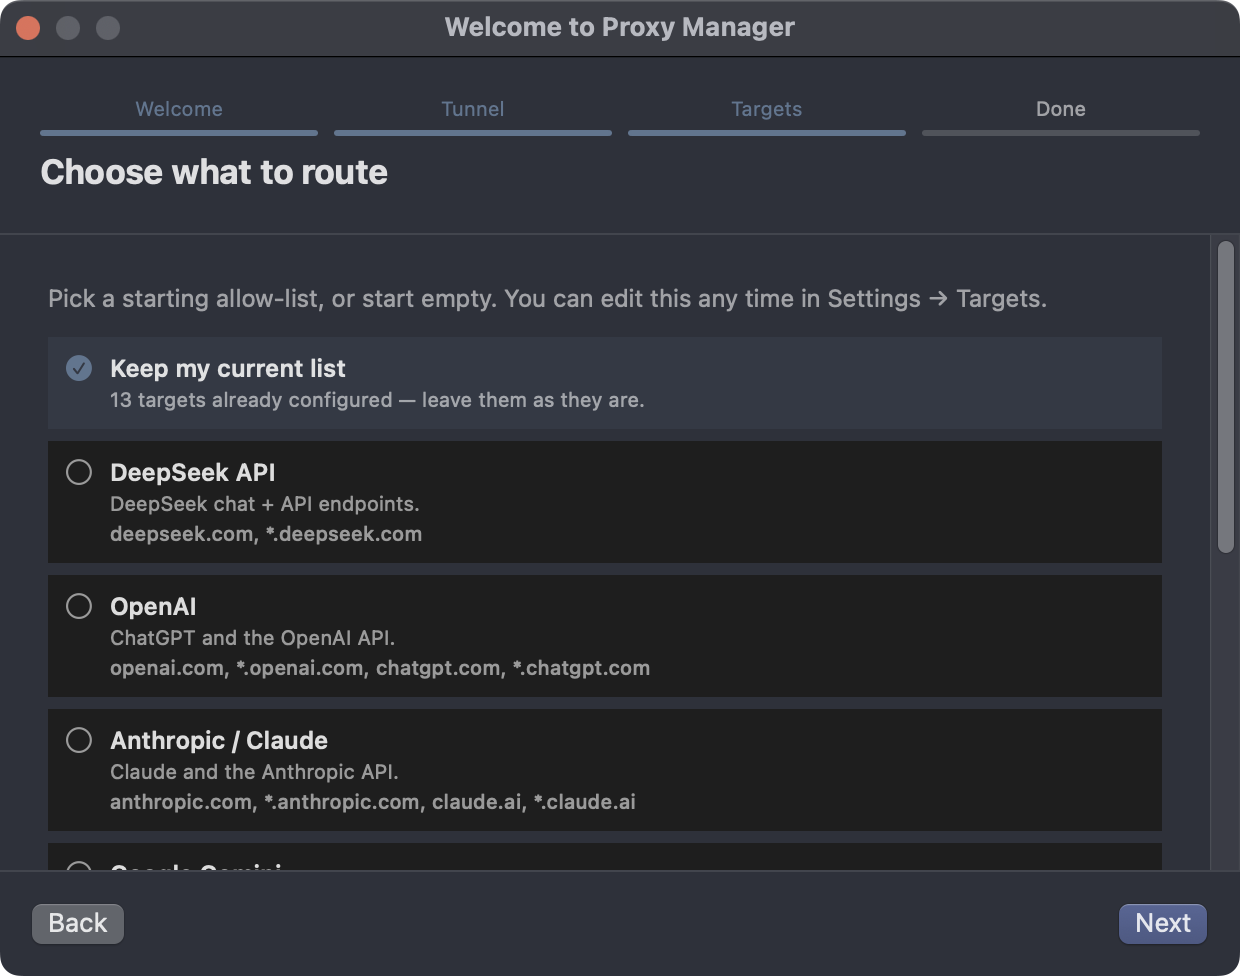
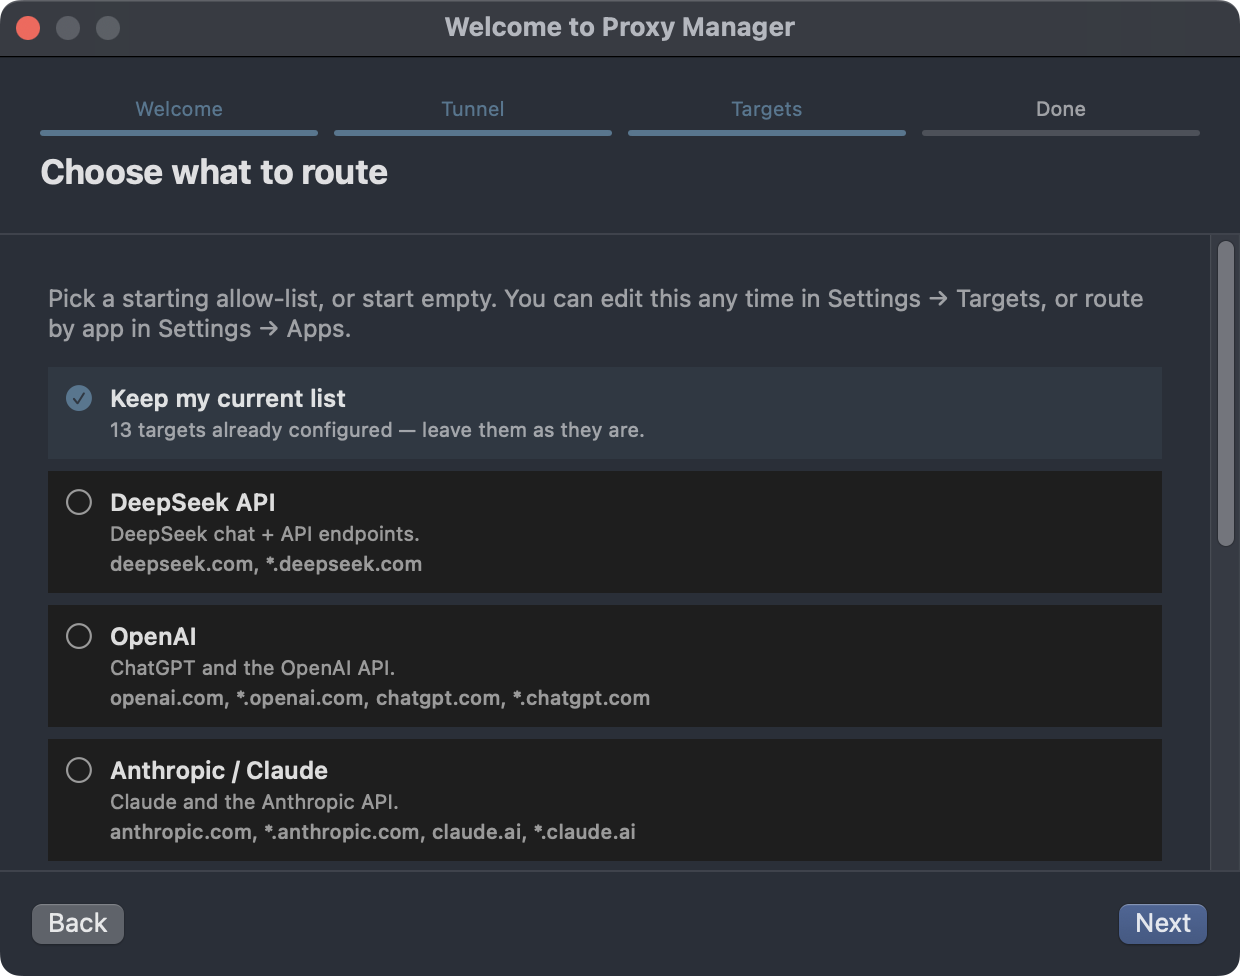
feat(site): document per-app routing and refresh screenshots
Present hostname- and app-based routing as co-equal: update the hero and
meta/OG copy, add a "Route by app" screenshot card, a third branch in the
How-it-works flow, a per-app Under-the-hood bullet, a per-app FAQ (index and
support), and the privacy metadata list. Refresh every screenshot (the
dashboard now shows the App column) and add the Apps screen in both
appearances.

Changed region(s): [[0.0306, 0.3074, 0.95, 0.8914], [0.8887, 0.2766, 0.9194, 0.3381], [0.9806, 0.5533, 1.0, 0.584]]

diff --git a/index.html b/index.html
@@ -4,18 +4,18 @@
 <meta charset="utf-8">
 <meta name="viewport" content="width=device-width, initial-scale=1">
 <title>Proxy Manager — route only the traffic you choose on macOS</title>
-<meta name="description" content="A native macOS menu-bar app that sends only the hostnames you choose through your SOCKS5 proxy or SSH tunnel. Everything else stays direct.">
+<meta name="description" content="A native macOS menu-bar app that routes only the traffic you choose — by hostname or by app — through your SOCKS5 proxy or SSH tunnel. Everything else stays direct.">
 <meta name="theme-color" content="#ffffff" media="(prefers-color-scheme: light)">
 <meta name="theme-color" content="#0e1116" media="(prefers-color-scheme: dark)">
 <meta property="og:title" content="Proxy Manager">
-<meta property="og:description" content="Send only the sites you choose through your SOCKS5 tunnel. Everything else stays direct.">
+<meta property="og:description" content="Route only the traffic you choose — by hostname or by app — through your SOCKS5 tunnel. Everything else stays direct.">
 <meta property="og:type" content="website">
 <meta property="og:site_name" content="Proxy Manager">
 <meta property="og:url" content="https://chaim-chv.github.io/proxy-manager/">
 <meta property="og:image" content="https://chaim-chv.github.io/proxy-manager/assets/dashboard-dark.png">
 <meta name="twitter:card" content="summary_large_image">
 <meta name="twitter:title" content="Proxy Manager">
-<meta name="twitter:description" content="Send only the sites you choose through your SOCKS5 tunnel. Everything else stays direct.">
+<meta name="twitter:description" content="Route only the traffic you choose — by hostname or by app — through your SOCKS5 tunnel. Everything else stays direct.">
 <meta name="twitter:image" content="https://chaim-chv.github.io/proxy-manager/assets/dashboard-dark.png">
 <link rel="canonical" href="https://chaim-chv.github.io/proxy-manager/">
 <link rel="icon" href="assets/favicon.svg" type="image/svg+xml">
@@ -63,9 +63,9 @@
   <!-- Hero -->
   <section class="hero">
     <div class="wrap">
-      <p class="eyebrow">Local allow-list proxy for macOS</p>
-      <h1>Send only the sites you choose through your tunnel.</h1>
-      <p class="lede">A local proxy that routes the hostnames you allow through your SOCKS5 tunnel — and everything else straight out.</p>
+      <p class="eyebrow">Local allow-list + per-app proxy for macOS</p>
+      <h1>Send only the traffic you choose through your tunnel.</h1>
+      <p class="lede">A local proxy that routes the hostnames you allow — or the apps you pick — through your SOCKS5 tunnel, and everything else straight out.</p>
       <div class="cta-row">
         <div class="download" data-download>
           <a class="btn btn-primary btn-lg dl-main" data-dl-main href="https://github.com/chaim-chv/proxy-manager/releases/latest" rel="noopener">
@@ -153,6 +153,19 @@
         <article class="shot">
           <div class="shot-media" data-tilt>
             <picture>
+              <source srcset="assets/apps-dark.png" media="(prefers-color-scheme: dark)">
+              <img src="assets/apps-light.png" alt="Settings → Apps: per-app routing rules for Chrome, Safari, Slack, and node, with Chrome set to Tunnel all." data-dark="assets/apps-dark.png" data-light="assets/apps-light.png" loading="lazy" width="1800" height="1280">
+            </picture>
+          </div>
+          <div class="shot-copy">
+            <h3>Route by app</h3>
+            <p>Tunnel all, follow your host list, or go direct — per app. An app rule wins over the allow-list.</p>
+          </div>
+        </article>
+
+        <article class="shot reverse">
+          <div class="shot-media" data-tilt>
+            <picture>
               <source srcset="assets/tunnel-dark.png" media="(prefers-color-scheme: dark)">
               <img src="assets/tunnel-light.png" alt="Tunnel settings for a manual SOCKS5 proxy, showing a healthy tunnel and supervision options." data-dark="assets/tunnel-dark.png" data-light="assets/tunnel-light.png" loading="lazy" width="1800" height="1280">
             </picture>
@@ -163,7 +176,7 @@
           </div>
         </article>
 
-        <article class="shot reverse">
+        <article class="shot">
           <div class="shot-media" data-tilt>
             <picture>
               <source srcset="assets/onboarding-dark.png" media="(prefers-color-scheme: dark)">
@@ -185,7 +198,7 @@
       <h2 class="section-title">How it works</h2>
       <p class="section-lede">One local hop decides where each connection goes.</p>
 
-      <div class="flow" role="img" aria-label="Apps connect to the local proxy on 127.0.0.1:8888, which sends allow-listed hosts to the SOCKS5 tunnel and everything else direct.">
+      <div class="flow" role="img" aria-label="Apps connect to the local proxy on 127.0.0.1:8888, which applies each app's rule first, then sends allow-listed hosts to the SOCKS5 tunnel and everything else direct.">
         <div class="flow-node">
           <span class="flow-title">Apps &amp; CLI</span>
           <span class="flow-sub">browser · curl · node</span>
@@ -197,8 +210,12 @@
         </div>
         <div class="flow-arrow" aria-hidden="true">→</div>
         <div class="flow-branch">
+          <div class="flow-node flow-accent">
+            <span class="flow-title">App rule</span>
+            <span class="flow-sub">→ tunnel all · direct all</span>
+          </div>
           <div class="flow-node flow-ok">
-            <span class="flow-title">Allow-listed</span>
+            <span class="flow-title">Host allow-listed</span>
             <span class="flow-sub">→ SOCKS5 tunnel</span>
           </div>
           <div class="flow-node">
@@ -210,7 +227,7 @@
 
       <ol class="steps">
         <li><strong>Turn it on.</strong> One switch starts the proxy, sets the macOS system proxy, and exports <code>HTTP_PROXY</code>/<code>HTTPS_PROXY</code> for CLI tools.</li>
-        <li><strong>Traffic is classified.</strong> Each connection is routed to the tunnel or straight out, streamed with backpressure.</li>
+        <li><strong>Traffic is classified.</strong> Each connection is matched to its app first (<em>Tunnel all</em> / <em>Direct all</em>), then to the host allow-list; everything else goes straight out, streamed with backpressure.</li>
         <li><strong>Watch it work.</strong> Every request shows up live. Turning it off restores your original settings.</li>
       </ol>
 
@@ -221,6 +238,7 @@
           <li><strong>Streaming, not buffering.</strong> <code>CONNECT</code> tunnels are relayed byte-for-byte with backpressure, so SSE and LLM token streams arrive as they are produced. WebSocket sessions (<code>ws://</code> and <code>wss://</code>) relay full-duplex too.</li>
           <li><strong>Bounded memory.</strong> Fixed 256 KB buffers per direction, with half-close handled so responses are never truncated.</li>
           <li><strong>Telemetry off the hot path.</strong> Per-request recording is a lock and an append; a single batched writer flushes SQLite.</li>
+          <li><strong>Per-app identity, resolved locally.</strong> With per-app routing on, each connection is matched to its originating app by a local process scan — helpers resolve to their host app. Off by default, so the hot path is unchanged.</li>
           <li><strong>Crash-safe.</strong> A watchdog restores your original proxy settings in milliseconds if the app dies.</li>
           <li><strong>Loopback by default.</strong> The proxy binds to <code>127.0.0.1</code> and blocks non-loopback clients from private destinations.</li>
           <li><strong>No admin prompts.</strong> Proxy toggles use per-user settings, so a normal setup never asks for a password.</li>
@@ -236,7 +254,7 @@
       <ul class="checks">
         <li><strong>No TLS interception.</strong> <code>CONNECT</code> streams are relayed byte-for-byte.</li>
         <li><strong>Local-only.</strong> Binds to <code>127.0.0.1</code>; private destinations are blocked for non-loopback clients.</li>
-        <li><strong>Metadata only, on disk.</strong> Host, size, timing, and status in a local SQLite file. No bodies or headers.</li>
+        <li><strong>Metadata only, on disk.</strong> Host, app, size, timing, and status in a local SQLite file. No bodies or headers.</li>
         <li><strong>Secrets in the Keychain.</strong> An SSH password is never written to the config or a command line.</li>
       </ul>
     </div>
@@ -261,7 +279,11 @@
         </details>
         <details>
           <summary>Does all my traffic go through the tunnel?</summary>
-          <p>No. Only the hostnames on your allow-list. Everything else connects directly, so the rest of your browsing is unaffected.</p>
+          <p>No. Only the hostnames on your allow-list — plus any apps you set to <em>Tunnel all</em>. Everything else connects directly, so the rest of your browsing is unaffected.</p>
+        </details>
+        <details>
+          <summary>Can I route traffic per app?</summary>
+          <p>Yes. In Settings → Apps, each app can be set to <em>Tunnel all</em>, <em>Use target rules</em> (follow the host allow-list), or <em>Direct all</em>, and apps with no rule use a default you choose. You can also set the frontmost app's mode straight from the menu bar. It's off until you turn it on.</p>
         </details>
         <details>
           <summary>Will it work with curl, node, and other CLI tools?</summary>
@@ -344,7 +366,7 @@
             <span data-dl-version></span>
           </span>
         </div>
-        <p class="footer-tag">Route only the hostnames you choose through your SOCKS5 tunnel. Everything else stays direct.</p>
+        <p class="footer-tag">Route only the traffic you choose — by hostname or by app — through your SOCKS5 tunnel. Everything else stays direct.</p>
       </div>
       <nav class="footer-col" aria-label="Product">
         <h4>Product</h4>

diff --git a/privacy.html b/privacy.html
@@ -57,7 +57,7 @@
   <div class="wrap narrow page-head">
     <p class="eyebrow">Privacy</p>
     <h1>Your traffic stays yours.</h1>
-    <p class="lede">Proxy Manager routes only the hostnames you choose and passes TLS through untouched. There is no telemetry, no analytics, and no account.</p>
+    <p class="lede">Proxy Manager routes only the traffic you choose — by hostname or by app — and passes TLS through untouched. There is no telemetry, no analytics, and no account.</p>
   </div>
 
   <div class="wrap narrow prose">
@@ -65,10 +65,10 @@
     <p>Proxy Manager collects no data about you. It has no telemetry, no analytics, no account, and no server that sees your traffic. The app is open source under the MIT license, so you can verify every claim on this page in the code.</p>
 
     <h2>The app</h2>
-    <p>Everything the app does happens locally on your Mac. It runs an HTTP proxy bound to <code>127.0.0.1</code> and routes only the hostnames on your allow-list through your SOCKS5 tunnel. Everything else connects directly.</p>
+    <p>Everything the app does happens locally on your Mac. It runs an HTTP proxy bound to <code>127.0.0.1</code> and routes only the hostnames on your allow-list — and, when you enable per-app routing, the apps you choose — through your SOCKS5 tunnel. Everything else connects directly.</p>
     <ul>
       <li><strong>TLS is passed through.</strong> <code>CONNECT</code> streams are relayed byte-for-byte; the app never sees plaintext payloads.</li>
-      <li><strong>Metadata only, on disk.</strong> Per-request records (host, method, route decision, status, byte counts, and timing) are written to a local SQLite file at <code>~/Library/Application Support/ProxyManager/telemetry.sqlite</code>. No request bodies and no headers are captured. Retention is 7 days by default and configurable in Settings.</li>
+      <li><strong>Metadata only, on disk.</strong> Per-request records (host, method, route decision, status, byte counts, and timing) are written to a local SQLite file at <code>~/Library/Application Support/ProxyManager/telemetry.sqlite</code>. When per-app routing is on, the originating app’s name and bundle identifier are recorded too. No request bodies and no headers are captured. Retention is 7 days by default and configurable in Settings.</li>
       <li><strong>Shell integration.</strong> If enabled, the app writes <code>~/.config/proxy-manager/env.sh</code> and adds a guarded <code>source</code> line to the shell rc files you approve, so new terminal sessions export <code>HTTP_PROXY</code>/<code>HTTPS_PROXY</code>.</li>
       <li><strong>Secrets in the Keychain.</strong> If you use “Run the tunnel for me,” an SSH password is stored in the macOS Keychain and fed to <code>ssh</code> through a one-shot helper. It is never written to the config or a command line. Key-file auth stores nothing.</li>
       <li><strong>System proxy safety.</strong> Before changing the macOS proxy, the app saves your original settings locally so it can always restore them. A small watchdog does the same if the app crashes.</li>

diff --git a/support.html b/support.html
@@ -73,6 +73,7 @@
     <p><strong>How do updates work?</strong> The app checks for new versions via Sparkle in the background and always asks before installing. You can change the frequency or turn checks off in Settings → General. Release notes live on the <a href="https://github.com/chaim-chv/proxy-manager/releases" rel="noopener">Releases page</a>.</p>
     <p><strong>Is my data private?</strong> Yes. There is no telemetry and no analytics; TLS is passed through untouched and metadata stays on your machine. See the <a href="privacy.html">privacy policy</a>.</p>
     <p><strong>Do I need my own tunnel?</strong> Proxy Manager routes to a SOCKS5 proxy that you provide — for example <code>ssh -D 1080 user@host</code>. Or switch on “Run the tunnel for me” and let the app create and supervise the SSH tunnel for you. See the <a href="index.html#faq">FAQ</a> for more.</p>
+    <p><strong>Can I route traffic per app?</strong> Yes. In Settings → Apps, each app can be set to <em>Tunnel all</em>, <em>Use target rules</em> (follow the host allow-list), or <em>Direct all</em>, with a default for apps you don’t list. You can also set the frontmost app’s mode from the menu bar. It’s off until you turn it on.</p>
 
     <h2>Contributing and source</h2>
     <p>Proxy Manager is open source under the MIT license. Everything — the app, this website, and the release history — lives at <a href="https://github.com/chaim-chv/proxy-manager" rel="noopener">chaim-chv/proxy-manager</a>. Commit conventions and the release process are described in <a href="https://github.com/chaim-chv/proxy-manager/blob/main/CONTRIBUTING.md" rel="noopener">CONTRIBUTING.md</a>.</p>
